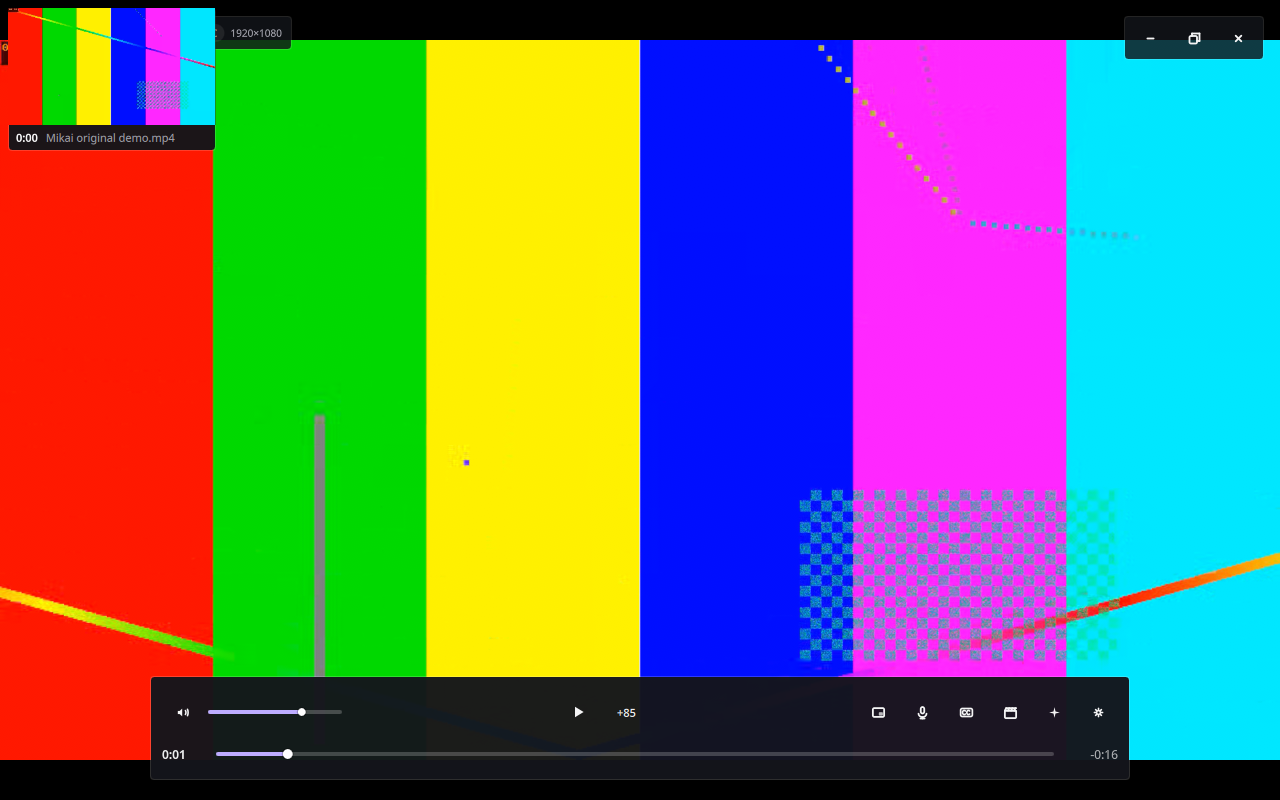
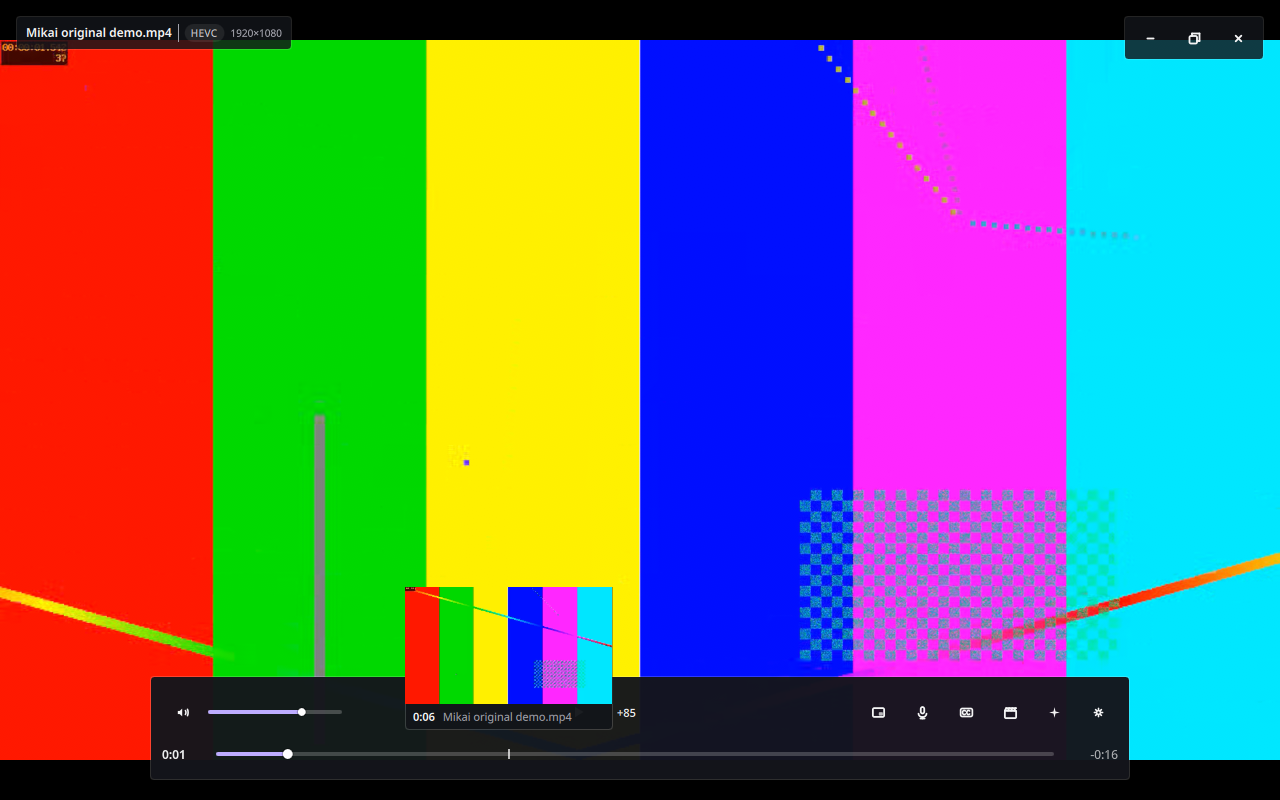
docs(gallery): anchor hover preview over timeline via real mouseMove in ReleaseGalleryProbe

Changed region(s): [[0.3125, 0.7188, 0.5, 0.9062], [0.0, 0.0, 0.1875, 0.1875]]

diff --git a/src/probes/app/ReleaseGalleryProbe.cpp b/src/probes/app/ReleaseGalleryProbe.cpp
@@ -516,7 +516,17 @@ private:
                 player_->noteUserActivity();
                 capture(player_->window(), QStringLiteral("player"), playbackState());
                 if (arguments_.fullDocsGallery) {
-                    player_->showHoverPreview(5.5);
+                    bool movedToTimeline = false;
+                    if (QObject* root = player_->window()->rootObject()) {
+                        if (auto* timeline = qobject_cast<QQuickItem*>(
+                                root->property("timeline").value<QObject*>())) {
+                            const QPointF scenePos = timeline->mapToScene(
+                                QPointF(timeline->width() * 0.35, timeline->height() * 0.5));
+                            QTest::mouseMove(player_->window(), scenePos.toPoint());
+                            movedToTimeline = true;
+                        }
+                    }
+                    if (!movedToTimeline) player_->showHoverPreview(5.5);
                     next(Stage::PlayerHoverShot);
                 } else {
                     next(Stage::CompareOpen);

diff --git a/docs/images/README.md b/docs/images/README.md
@@ -14,7 +14,7 @@ Neither the current gallery nor the historical records are release QA, rights cl
[8 lines of base64/hex data omitted]
